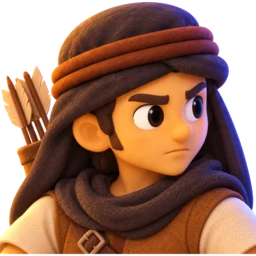
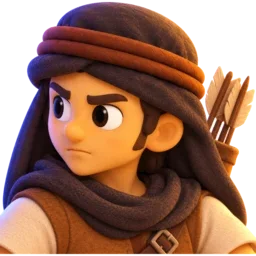
fix(art): 圖鑑三套圖方向逐張校正（翻 19 張）；立繪加「點圖放大」角標；效果頁厚皮／換排／無月夜／一筆糧四格換小居新圖
Claude-Session: https://claude.ai/code/session_01SYPuyoVBYFpBbWmvumijvq

diff --git a/index.html b/index.html
@@ -259,7 +259,9 @@
   #roster-count { font-size: 13px; color: var(--muted); margin-top: 8px; min-height: 16px; }
   #roster-detail { text-align: left; background: #0004; border-radius: 8px; padding: 10px 12px; margin-top: 8px; font-size: 14px; line-height: 1.6; height: 150px; overflow-y: auto; display: flex; gap: 10px; }
   /* 圖鑑角色頁：左邊立繪（點一下開燈箱看大圖）、右邊名字＋稱號＋數值（2026-10-26 James：遊戲內的圖太小，圖鑑要看得清楚） */
-  #roster-detail .big { width: 96px; height: 96px; flex: none; object-fit: contain; cursor: zoom-in; border-radius: 8px; background: #0003; align-self: flex-start; position: sticky; top: 0; -webkit-user-drag: none; -webkit-touch-callout: none; } /* sticky：右邊文字捲動時立繪留在原地 */
+  #roster-detail .bigw { position: relative; flex: none; align-self: flex-start; position: sticky; top: 0; width: 96px; height: 96px; } /* sticky：右邊文字捲動時立繪留在原地 */
+  #roster-detail .big { display: block; width: 96px; height: 96px; object-fit: contain; cursor: zoom-in; border-radius: 8px; background: #0003; -webkit-user-drag: none; -webkit-touch-callout: none; }
+  #roster-detail .zoom { position: absolute; right: 0; bottom: 0; font-size: 10px; line-height: 1.4; color: var(--text); background: #000b; border-radius: 8px 0 8px 0; padding: 1px 6px; pointer-events: none; white-space: nowrap; } /* 沒說沒人知道立繪可以點（James 10/27） */
   html.big #roster-detail { height: 190px; } /* 大字模式行高變大，150px 只看得到四行半 */
   #roster-detail .dt { flex: 1; min-width: 0; }
   #roster-detail .sub { display: block; color: var(--muted); font-size: 12px; line-height: 1.3; margin: -2px 0 4px; }
@@ -511,6 +513,7 @@ const ICON_IMG = {
   '🐗': 'c-boar', '🦉': 'c-owl', '🐆': 'c-leopard', '🐑': 'c-ewe',
   '🪃': 'c-thrower', '🕳': 'c-pit', '🥛': 'c-waterskin', '⛰': 'c-stonepile', '🧔♂': 'c-bandit', '🐂': 'c-ox', // 第三章：拋石手、陷坑、水袋、石堆（圖鑑的「山坡」也用它）、強盜、野牛；大鷹跟鷙鳥同一張 eagle，靠放大與鷹形影子分
   '🦴': 'c-kennel', '🪵': 'c-post', '🧍': 'c-gatekeeper', '⛏': 'c-shovel', '🐾': 'c-paws', '🧑': 'person', '🐩': 'poodle', // 狗窩、崗位、看門的、鏟子、腳印、組合字備援
+  '🛡': 'c-hide', '↕': 'c-swap', '🌑': 'c-moonless', '🌾': 'c-ration', // 效果頁專用：厚皮、換排、無月夜、一筆糧（10/27 James：效果頁還有四格是系統 emoji；小居生圖）。費用列的「🌾 50」是純文字，不經 icoImg，不受影響
 };
 // 角色（人與動物）各有三套圖：棋盤 q-*（Q 版小人，縮到一格還認得出）、卡片與行內 h-*（頭像）、圖鑑角色頁 l-*（512px 立繪，48 張都有）。道具與標記棋盤和卡片都用原本的 c-*（2026-10-26 仿主流手遊的分工）
 const CHAR_KEYS = new Set(['farmer', 'slinger', 'sling', 'dog', 'hireling', 'archer', 'horn', 'healer', 'patrol', 'volley', 'cradle', 'thrower', 'gatekeeper', 'ewe', 'wolf', 'bear', 'lion', 'thief', 'stealer', 'fox', 'locust', 'wilddog', 'eagle', 'boar', 'owl', 'leopard', 'bandit', 'ox']);
@@ -1195,8 +1198,8 @@ function renderRosterDetail() {
   }
 }
 // 圖鑑角色頁的立繪：有 l-* 大圖就放，點一下開燈箱；大圖載不到就換成頭像（再載不到才拿掉，文字照排）
-function bigImg(d, tab, k) { const f = icoFile(d.ico, 'big'), h = icoFile(d.ico, 'head'); return f ? `<img class="big" src="img/ico/${f}.webp" alt="" data-tab="${tab}" data-key="${k}" data-fb="${h || ''}" onerror="bigFail(this)">` : ''; }
-function bigFail(img) { const fb = img.dataset.fb; if (fb && !img.dataset.tried) { img.dataset.tried = '1'; img.src = `img/ico/${fb}.webp`; } else img.remove(); }
+function bigImg(d, tab, k) { const f = icoFile(d.ico, 'big'), h = icoFile(d.ico, 'head'); return f ? `<span class="bigw"><img class="big" src="img/ico/${f}.webp" alt="" data-tab="${tab}" data-key="${k}" data-fb="${h || ''}" onerror="bigFail(this)"><span class="zoom">🔍 點圖放大</span></span>` : ''; }
+function bigFail(img) { const fb = img.dataset.fb; if (fb && !img.dataset.tried) { img.dataset.tried = '1'; img.src = `img/ico/${fb}.webp`; } else img.parentElement.remove(); } // 連頭像都載不到：整個圖框（含角標）拿掉，文字照排
 // 敵人出處行：經文＋第幾夜初登場（從關卡波次算，不靠本機紀錄）
 const FIRST_NIGHT = {}; LEVELS.forEach((l, i) => (l.waves || []).forEach(w => (w.list || []).forEach(([t]) => { if (FIRST_NIGHT[t] === undefined) FIRST_NIGHT[t] = i + 1; })));
 function enemyRef(k) { const e = ENEMIES[k], parts = []; if (e.ref) parts.push(fullRef(e.ref)); if (FIRST_NIGHT[k]) parts.push(`第 ${FIRST_NIGHT[k]} 夜初登場`); return parts.join('・'); }

diff --git a/docs/art-asset-plan-2026-10-26.md b/docs/art-asset-plan-2026-10-26.md
@@ -102,3 +102,5 @@
     | 視覺整合（子代理） | 燈箱手機橫放超出畫面；說明區 150px 大字模式只看得到四行半、立繪跟著捲走；沒預載立繪；燈箱沒 Esc、iOS 長按跳選單 | 全部採納：圖寬加 55dvh 上限；大字模式 190px、立繪 sticky；預載；Esc 關閉；touch-callout 關掉 |
     | 小居 Codex review | 效果頁的字在 flex 裡被排成並排；銀號升級後黃框只亮本排（實際五排）；迷羊每幀只走 0.1px 永遠過不了 0.3px 門檻、一路向左卻面向右 | 全部採納：效果頁包進 .dt；rangeCells 處理 all；轉向改累積位移（跟內建審查同一處修） |
     render v19。98 項引擎測試全過。
+
+- 2026-10-27 **James 真機看圖鑑三條**：(1) 三套圖逐張看方向，我方朝右、敵方朝左，翻了 19 張（頭像 8：弓箭手、抱羊羔、看門的、纏裹、巡夜人、拋石手、投石隊、野狗；立繪 8：弓箭手、看門的、纏裹、雇工、吹角手、巡夜人、強盜、豹；Q 版 3：抱羊羔、纏裹、強盜），`magick -flop` 直接改 webp，原圖沒動。(2) 立繪右下角加「🔍 點圖放大」角標（`.bigw` 包住 `img.big`，sticky 搬到外層）。(3) 效果頁四格原本是系統 emoji（厚皮 🛡、換排 ↕、無月夜 🌑、一筆糧 🌾），請小居生四張（獸皮盾、木雕雙向箭頭、厚雲無月徽章、麥穗糧袋），存 `img/ico/c-hide / c-swap / c-moonless / c-ration.webp`，原圖 `img/char/<key>-full-src.png`；ICON_IMG 把這四個 emoji 接上（費用列的「🌾 50」是純文字，不受影響）。腳本在 scratchpad `gen/run.sh`：參考圖附油壺、石頭、油燈三張現成道具當風格錨，第一輪就全部可用。
